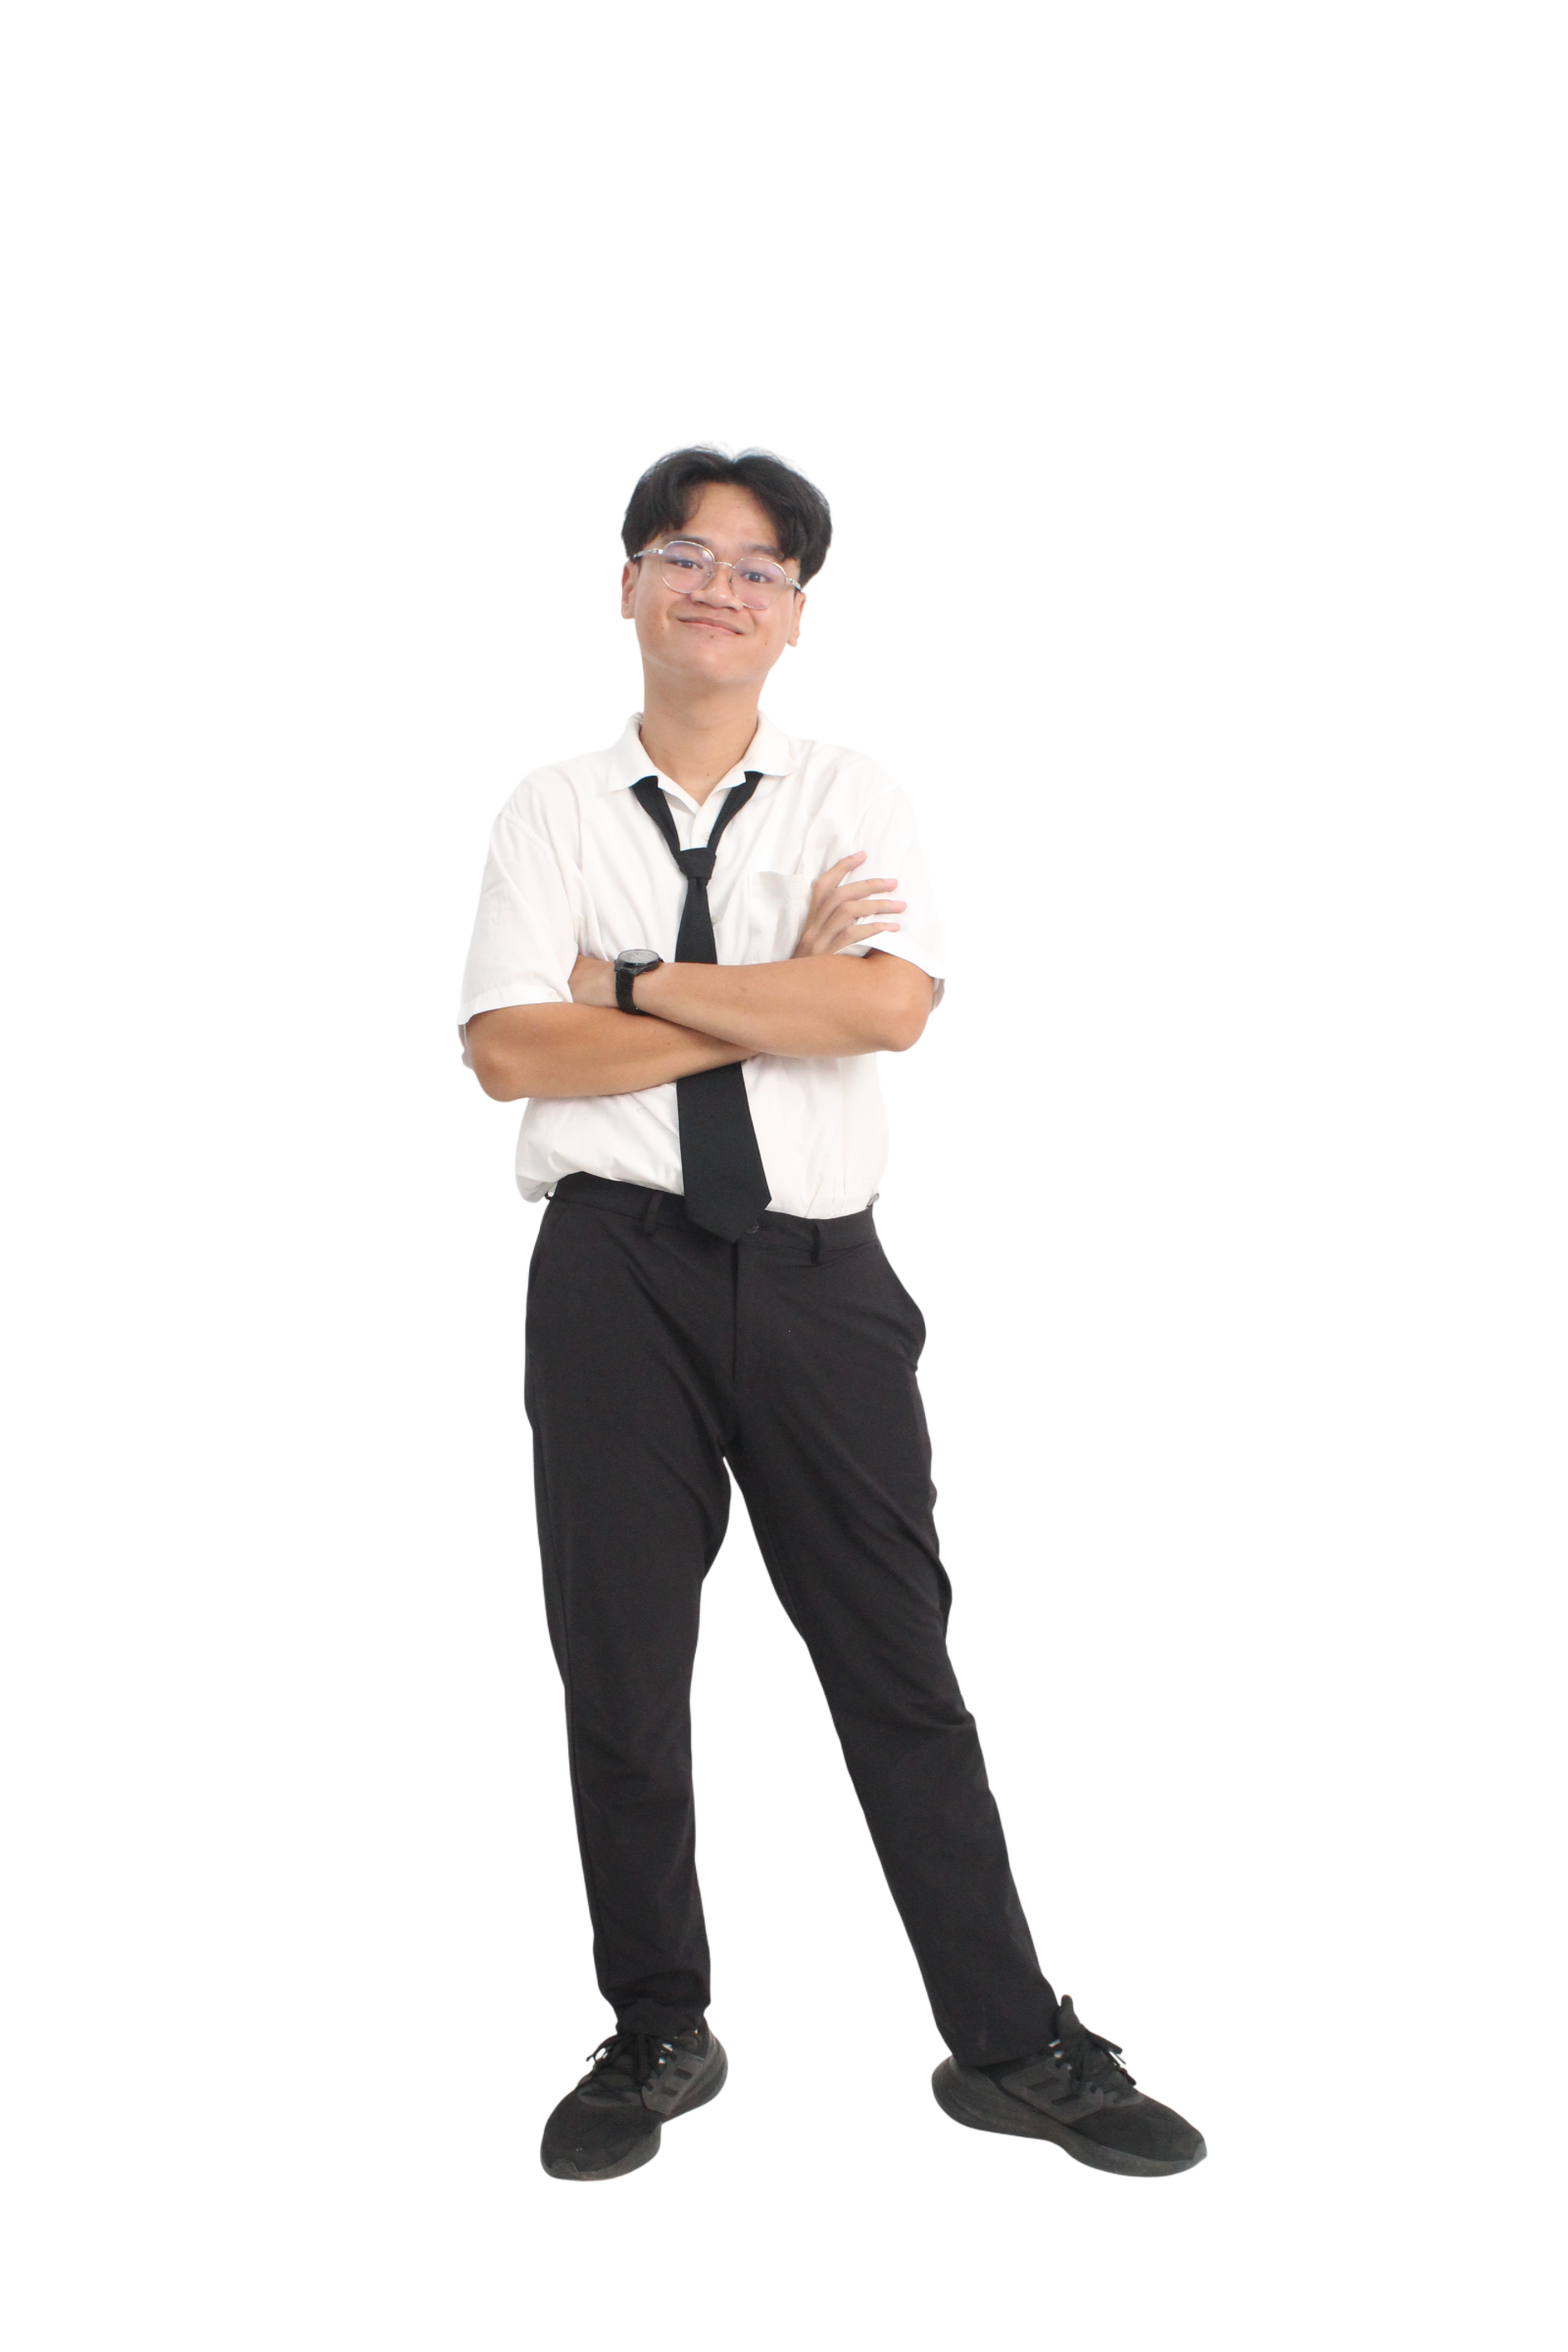
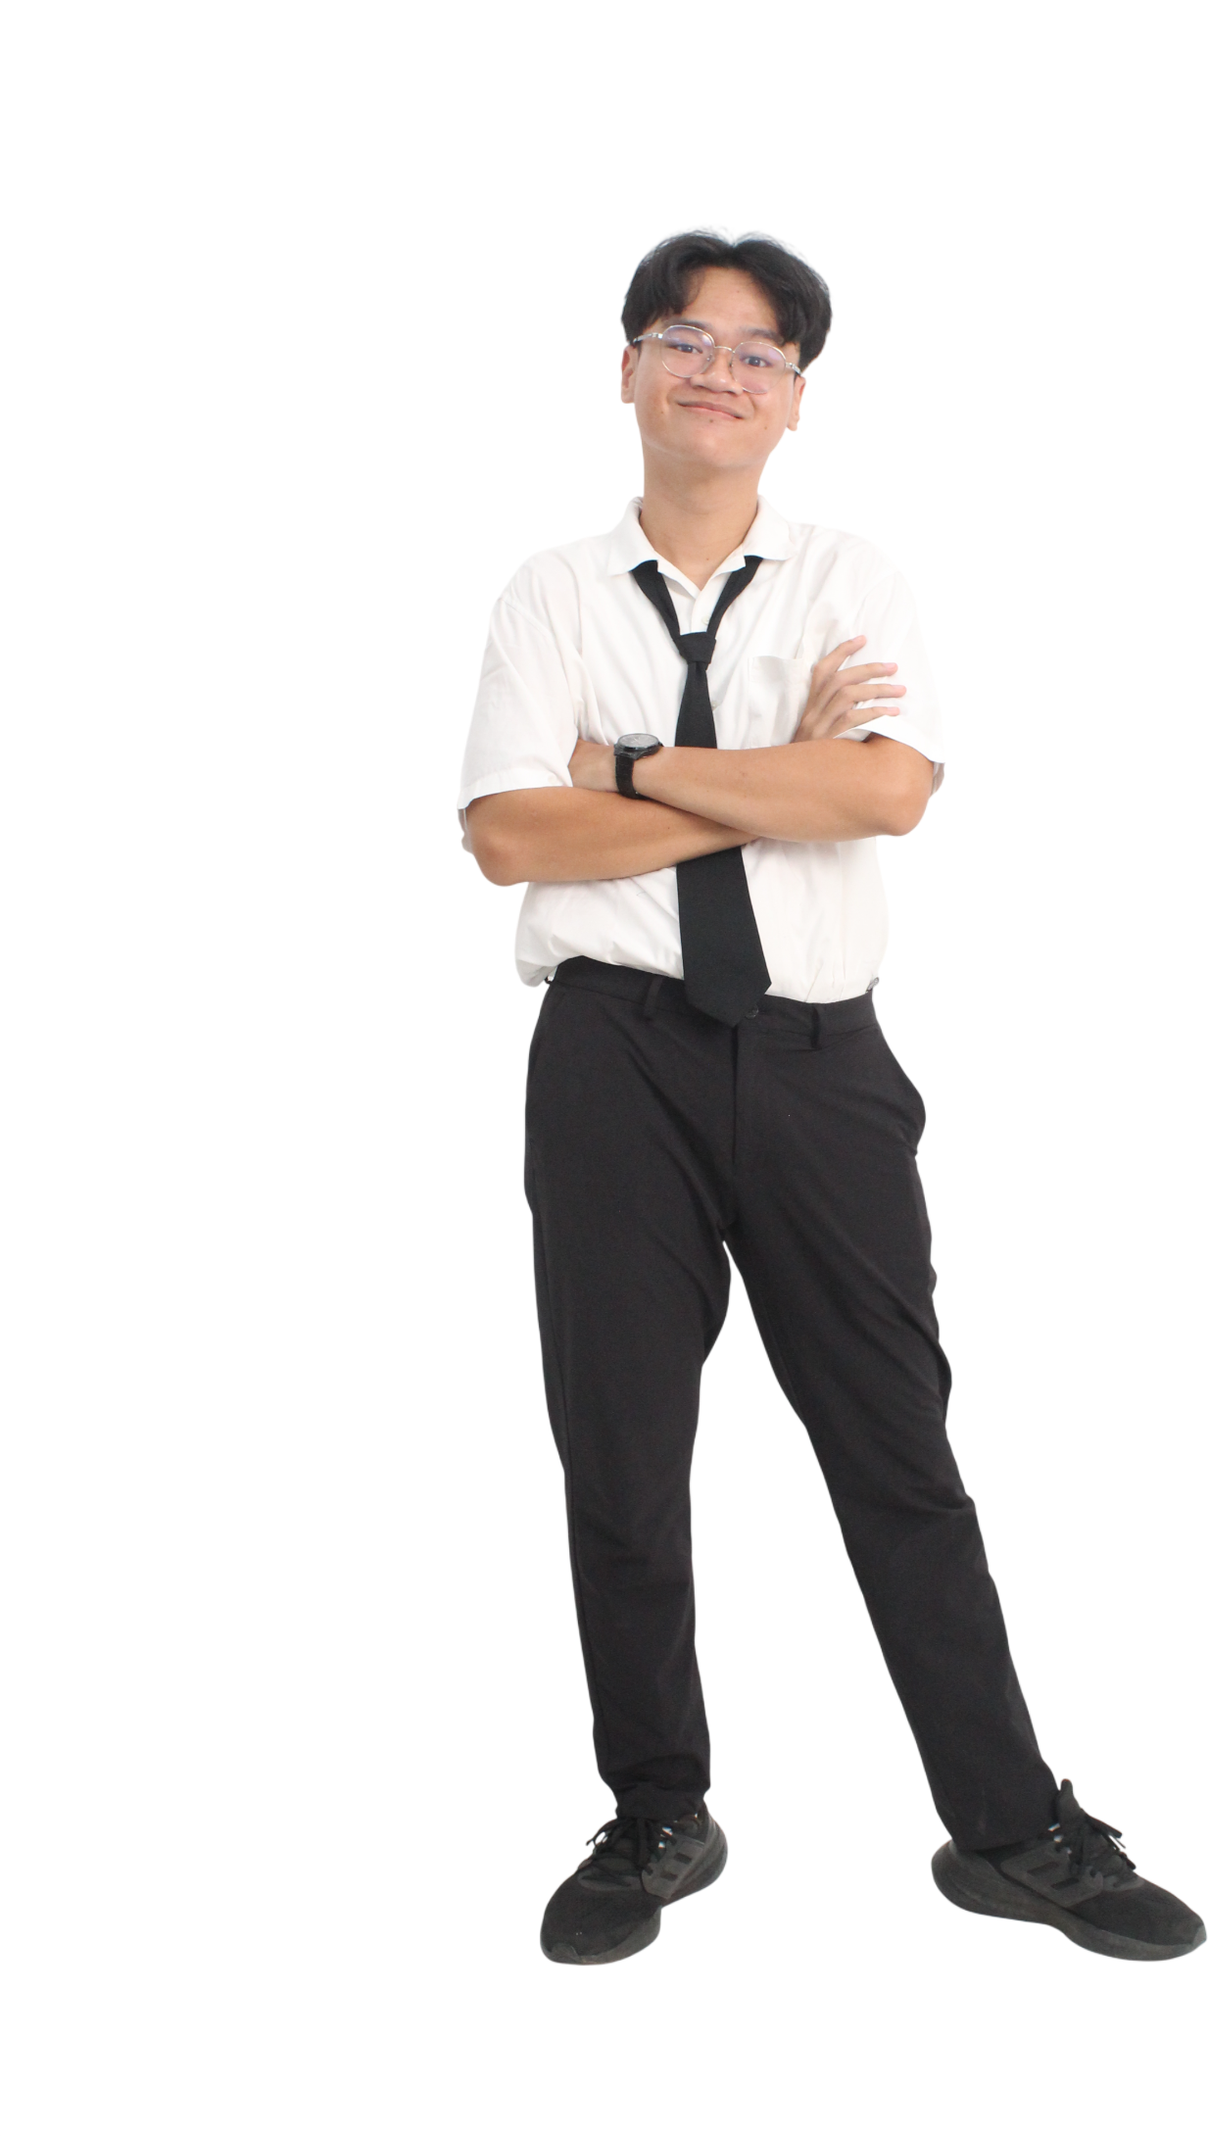
Center profile photo horizontally and raise vertically by cropping transparent padding

Changed region(s): [[0.2774, 0.0936, 1.0, 0.9358]]

diff --git a/index.html b/index.html
@@ -72,7 +72,7 @@
             
             <div class="hero-image-container">
                 <div class="hero-image-wrapper">
-                    <img src="image/Foto Gw PNG.png" alt="Faiz Naufal Huda Profile Picture" class="hero-img">
+                    <img src="image/Foto Gw PNG.png?v=2" alt="Faiz Naufal Huda Profile Picture" class="hero-img">
                 </div>
             </div>
         </div>
